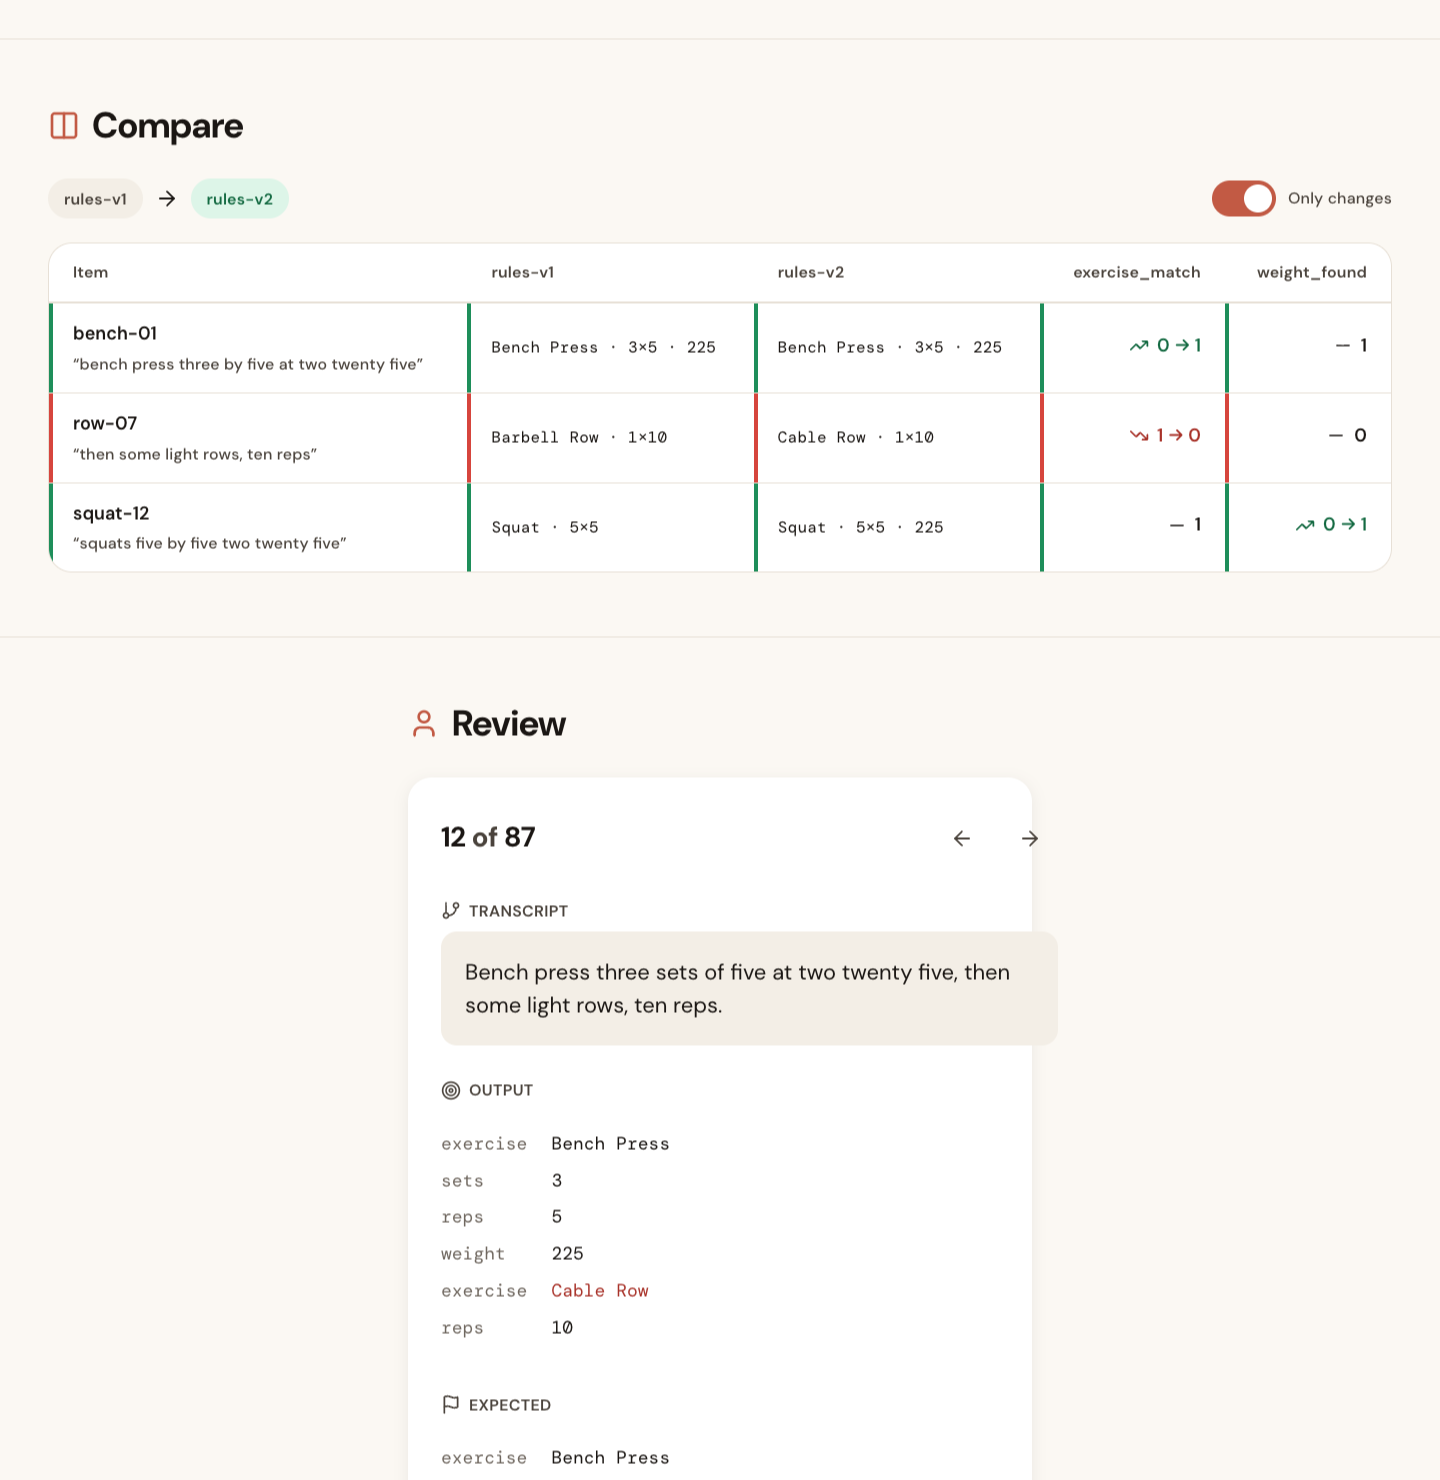
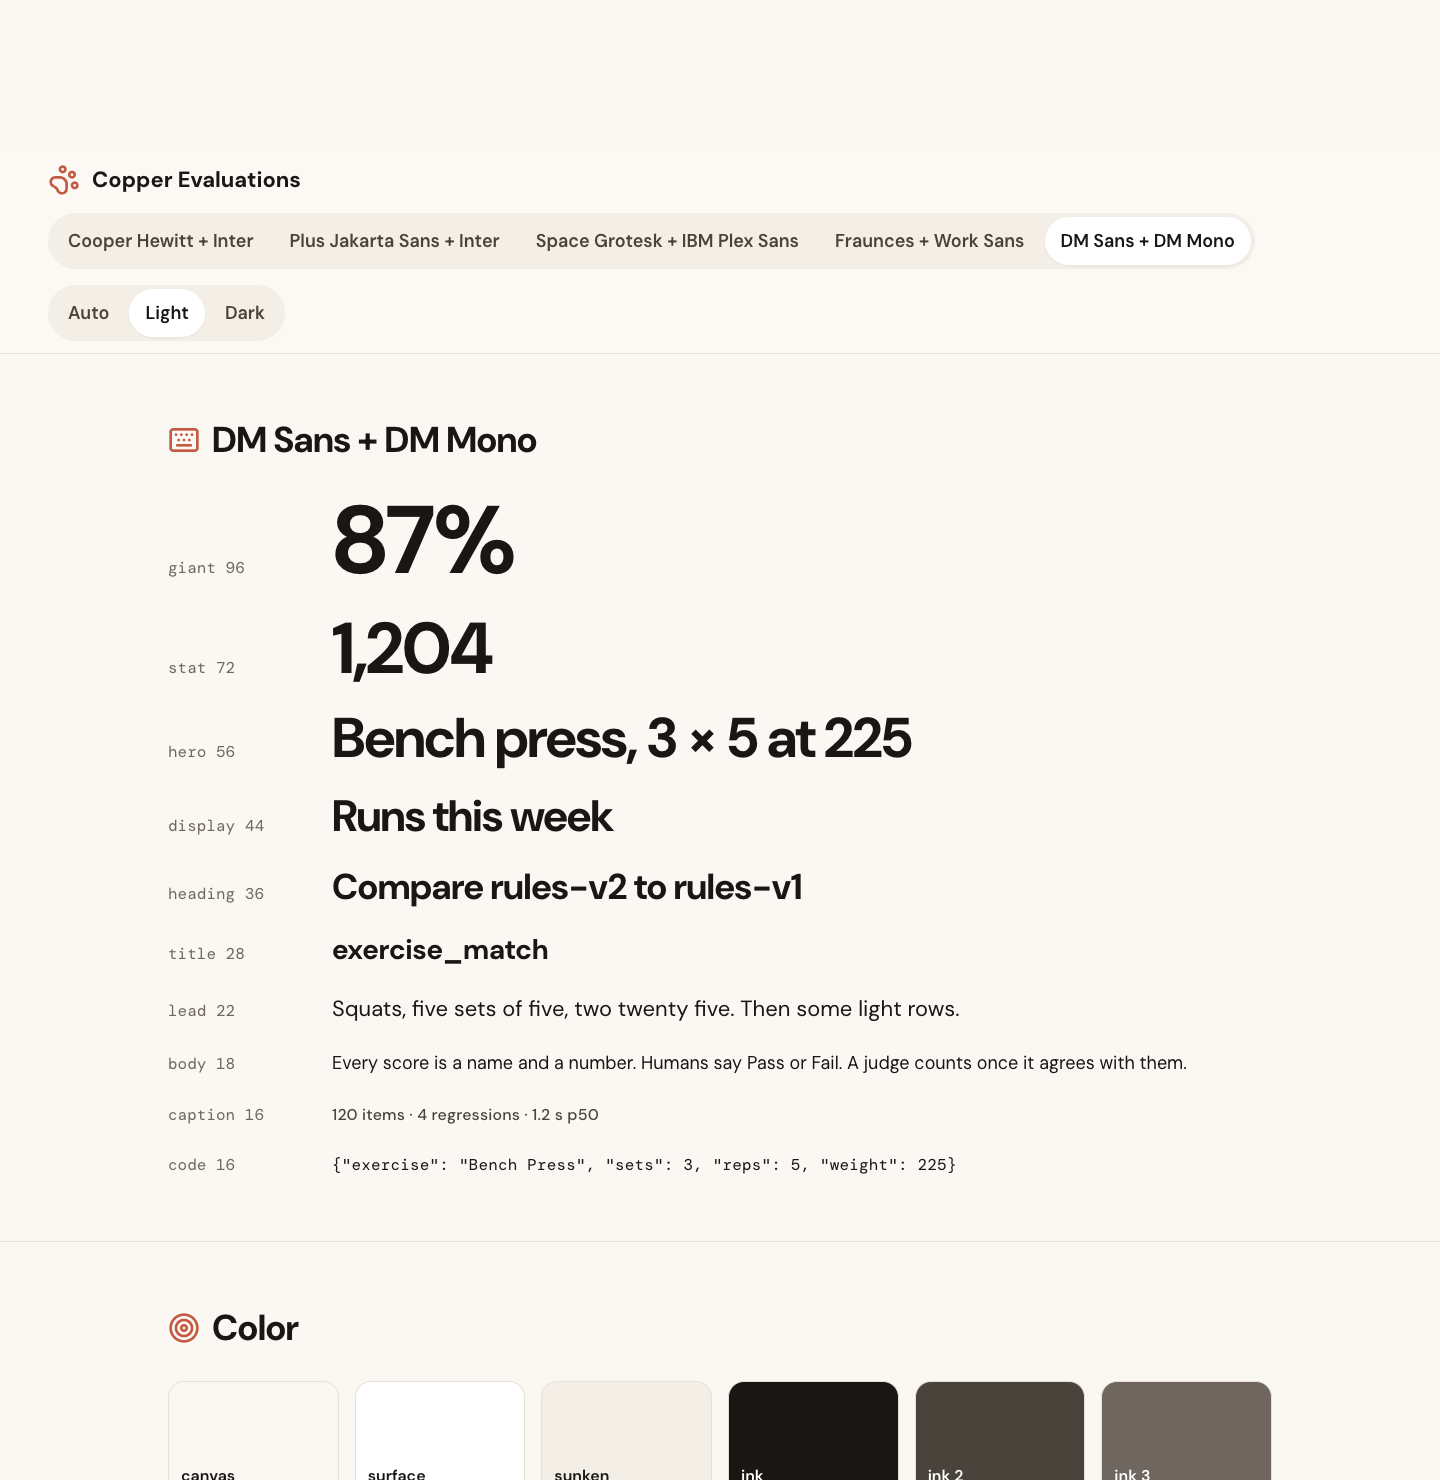
feat(fonts): remove San Francisco, fix type specimen crops
Seven sans-serif pairs, all on Google Fonts. Specimens now crop from
the top of the page instead of the center.

Claude-Session: https://claude.ai/code/session_015RtGAbFhzafZUMXAFjyWvT

diff --git a/design-system/dist/artifact.html b/design-system/dist/artifact.html
@@ -206,12 +206,6 @@
   --font-mono: "JetBrains Mono", ui-monospace, SFMono-Regular, Menlo, Consolas, monospace;
   --font-heading-weight: 700;
 }
-:root[data-font="sf"] {
-  --font-heading: -apple-system, BlinkMacSystemFont, "SF Pro Text", "SF Pro Display", system-ui, "Segoe UI", Roboto, sans-serif;
-  --font-body: -apple-system, BlinkMacSystemFont, "SF Pro Text", "SF Pro Display", system-ui, "Segoe UI", Roboto, sans-serif;
-  --font-mono: ui-monospace, "SF Mono", Menlo, Consolas, monospace;
-  --font-heading-weight: 700;
-}
 :root[data-font="jakarta"] {
   --font-heading: "Plus Jakarta Sans", system-ui, -apple-system, "Segoe UI", Roboto, Helvetica, Arial, sans-serif;
   --font-body: Figtree, system-ui, -apple-system, "Segoe UI", Roboto, Helvetica, Arial, sans-serif;
@@ -659,7 +653,7 @@ textarea.input { min-height: 120px; padding-block: var(--space-3); resize: verti
 
 <script>
 (function () {
-  var pairs = [{"id":"sora","label":"Sora + Manrope"},{"id":"rubik","label":"Rubik + Lexend"},{"id":"open","label":"Open Sans"},{"id":"sf","label":"San Francisco"},{"id":"jakarta","label":"Plus Jakarta Sans + Figtree"},{"id":"outfit","label":"Outfit + Source Sans 3"},{"id":"grotesk","label":"Space Grotesk + IBM Plex Sans"},{"id":"dm","label":"DM Sans + DM Mono"}];
+  var pairs = [{"id":"sora","label":"Sora + Manrope"},{"id":"rubik","label":"Rubik + Lexend"},{"id":"open","label":"Open Sans"},{"id":"jakarta","label":"Plus Jakarta Sans + Figtree"},{"id":"outfit","label":"Outfit + Source Sans 3"},{"id":"grotesk","label":"Space Grotesk + IBM Plex Sans"},{"id":"dm","label":"DM Sans + DM Mono"}];
   var root = document.documentElement;
   var store = { get: function (k) { try { return localStorage.getItem(k); } catch (e) { return null; } }, set: function (k, v) { try { localStorage.setItem(k, v); } catch (e) {} } };
 

diff --git a/design-system/preview/index.html b/design-system/preview/index.html
@@ -208,12 +208,6 @@
   --font-mono: "JetBrains Mono", ui-monospace, SFMono-Regular, Menlo, Consolas, monospace;
   --font-heading-weight: 700;
 }
-:root[data-font="sf"] {
-  --font-heading: -apple-system, BlinkMacSystemFont, "SF Pro Text", "SF Pro Display", system-ui, "Segoe UI", Roboto, sans-serif;
-  --font-body: -apple-system, BlinkMacSystemFont, "SF Pro Text", "SF Pro Display", system-ui, "Segoe UI", Roboto, sans-serif;
-  --font-mono: ui-monospace, "SF Mono", Menlo, Consolas, monospace;
-  --font-heading-weight: 700;
-}
 :root[data-font="jakarta"] {
   --font-heading: "Plus Jakarta Sans", system-ui, -apple-system, "Segoe UI", Roboto, Helvetica, Arial, sans-serif;
   --font-body: Figtree, system-ui, -apple-system, "Segoe UI", Roboto, Helvetica, Arial, sans-serif;
@@ -661,7 +655,7 @@ textarea.input { min-height: 120px; padding-block: var(--space-3); resize: verti
 
 <script>
 (function () {
-  var pairs = [{"id":"sora","label":"Sora + Manrope"},{"id":"rubik","label":"Rubik + Lexend"},{"id":"open","label":"Open Sans"},{"id":"sf","label":"San Francisco"},{"id":"jakarta","label":"Plus Jakarta Sans + Figtree"},{"id":"outfit","label":"Outfit + Source Sans 3"},{"id":"grotesk","label":"Space Grotesk + IBM Plex Sans"},{"id":"dm","label":"DM Sans + DM Mono"}];
+  var pairs = [{"id":"sora","label":"Sora + Manrope"},{"id":"rubik","label":"Rubik + Lexend"},{"id":"open","label":"Open Sans"},{"id":"jakarta","label":"Plus Jakarta Sans + Figtree"},{"id":"outfit","label":"Outfit + Source Sans 3"},{"id":"grotesk","label":"Space Grotesk + IBM Plex Sans"},{"id":"dm","label":"DM Sans + DM Mono"}];
   var root = document.documentElement;
   var store = { get: function (k) { try { return localStorage.getItem(k); } catch (e) { return null; } }, set: function (k, v) { try { localStorage.setItem(k, v); } catch (e) {} } };
 

diff --git a/design-system/src/tokens/typography.ts b/design-system/src/tokens/typography.ts
@@ -102,8 +102,6 @@ const monoFallback = `ui-monospace, SFMono-Regular, Menlo, Consolas, monospace`;
 
 /**
  * Candidate font pairs. Pick one; the others stay for comparison.
- * San Francisco is the Apple system face. It has no web download, so the
- * stack resolves to SF on Apple devices and to the platform sans elsewhere.
  */
 export const fontPairs: readonly FontPair[] = [
   {
@@ -134,15 +132,6 @@ export const fontPairs: readonly FontPair[] = [
     mono: `"JetBrains Mono", ${monoFallback}`,
     googleFontsUrl:
       'https://fonts.googleapis.com/css2?family=Open+Sans:wght@400;500;600;700;800&family=JetBrains+Mono:wght@400;500&display=swap',
-    headingWeight: 'bold',
-  },
-  {
-    id: 'sf',
-    label: 'San Francisco',
-    heading: `-apple-system, BlinkMacSystemFont, "SF Pro Text", "SF Pro Display", system-ui, "Segoe UI", Roboto, sans-serif`,
-    body: `-apple-system, BlinkMacSystemFont, "SF Pro Text", "SF Pro Display", system-ui, "Segoe UI", Roboto, sans-serif`,
-    mono: `ui-monospace, "SF Mono", Menlo, Consolas, monospace`,
-    googleFontsUrl: null,
     headingWeight: 'bold',
   },
   {

diff --git a/design-system/dist/system.css b/design-system/dist/system.css
@@ -194,12 +194,6 @@
   --font-mono: "JetBrains Mono", ui-monospace, SFMono-Regular, Menlo, Consolas, monospace;
   --font-heading-weight: 700;
 }
-:root[data-font="sf"] {
-  --font-heading: -apple-system, BlinkMacSystemFont, "SF Pro Text", "SF Pro Display", system-ui, "Segoe UI", Roboto, sans-serif;
-  --font-body: -apple-system, BlinkMacSystemFont, "SF Pro Text", "SF Pro Display", system-ui, "Segoe UI", Roboto, sans-serif;
-  --font-mono: ui-monospace, "SF Mono", Menlo, Consolas, monospace;
-  --font-heading-weight: 700;
-}
 :root[data-font="jakarta"] {
   --font-heading: "Plus Jakarta Sans", system-ui, -apple-system, "Segoe UI", Roboto, Helvetica, Arial, sans-serif;
   --font-body: Figtree, system-ui, -apple-system, "Segoe UI", Roboto, Helvetica, Arial, sans-serif;

diff --git a/design-system/dist/tokens.css b/design-system/dist/tokens.css
@@ -194,12 +194,6 @@
   --font-mono: "JetBrains Mono", ui-monospace, SFMono-Regular, Menlo, Consolas, monospace;
   --font-heading-weight: 700;
 }
-:root[data-font="sf"] {
-  --font-heading: -apple-system, BlinkMacSystemFont, "SF Pro Text", "SF Pro Display", system-ui, "Segoe UI", Roboto, sans-serif;
-  --font-body: -apple-system, BlinkMacSystemFont, "SF Pro Text", "SF Pro Display", system-ui, "Segoe UI", Roboto, sans-serif;
-  --font-mono: ui-monospace, "SF Mono", Menlo, Consolas, monospace;
-  --font-heading-weight: 700;
-}
 :root[data-font="jakarta"] {
   --font-heading: "Plus Jakarta Sans", system-ui, -apple-system, "Segoe UI", Roboto, Helvetica, Arial, sans-serif;
   --font-body: Figtree, system-ui, -apple-system, "Segoe UI", Roboto, Helvetica, Arial, sans-serif;

diff --git a/docs/design/font-pairs.md b/docs/design/font-pairs.md
@@ -1,19 +1,16 @@
 # Font pairs
 
-Eight candidates, all sans-serif. Toggle between them in `design-system/preview/index.html`. Screenshots are 1440px wide, light theme, captured on macOS so San Francisco renders as SF Pro. One dark capture for the default pair.
+Seven candidates, all sans-serif and all on Google Fonts, so they render the same on every platform. Toggle between them in `design-system/preview/index.html`. Screenshots are 1440px wide, light theme. One dark capture for the default pair.
 
 | Id | Heading | Body | Character |
 |---|---|---|---|
 | `sora` | Sora | Manrope | Airy geometric headings, calm wide body. Default. |
 | `rubik` | Rubik | Lexend | Rounded headings, body built for reading ease. |
 | `open` | Open Sans | Open Sans | Humanist, neutral, one variable family. |
-| `sf` | San Francisco | San Francisco | Pure Apple. Segoe or Roboto on other platforms. |
 | `jakarta` | Plus Jakarta Sans | Figtree | Rounded, consumer feel. |
 | `outfit` | Outfit | Source Sans 3 | Geometric display, humanist body. |
 | `grotesk` | Space Grotesk | IBM Plex Sans | Quirky terminals on the headings, sober body. |
 | `dm` | DM Sans | DM Mono | One family. Calm, low contrast between roles. |
-
-San Francisco has no web download. The stack is `-apple-system, "SF Pro Text", system-ui`, so it resolves to SF on Apple devices and to the platform sans elsewhere.
 
 ## Type specimen
 
@@ -22,8 +19,6 @@ San Francisco has no web download. The stack is `-apple-system, "SF Pro Text", s
 ![Rubik + Lexend](../../design-system/preview/screenshots/type-rubik.png)
 
 ![Open Sans](../../design-system/preview/screenshots/type-open.png)
-
-![San Francisco](../../design-system/preview/screenshots/type-sf.png)
 
 ![Plus Jakarta Sans + Figtree](../../design-system/preview/screenshots/type-jakarta.png)
 
@@ -40,7 +35,6 @@ San Francisco has no web download. The stack is `-apple-system, "SF Pro Text", s
 | sora | [light](../../design-system/preview/screenshots/font-sora-light.png) | [dark](../../design-system/preview/screenshots/font-sora-dark.png) |
 | rubik | [light](../../design-system/preview/screenshots/font-rubik-light.png) | |
 | open | [light](../../design-system/preview/screenshots/font-open-light.png) | |
-| sf | [light](../../design-system/preview/screenshots/font-sf-light.png) | |
 | jakarta | [light](../../design-system/preview/screenshots/font-jakarta-light.png) | |
 | outfit | [light](../../design-system/preview/screenshots/font-outfit-light.png) | |
 | grotesk | [light](../../design-system/preview/screenshots/font-grotesk-light.png) | |

diff --git a/design-system/README.md b/design-system/README.md
@@ -45,7 +45,6 @@ open preview/index.html
 | `sora` | Sora | Manrope |
 | `rubik` | Rubik | Lexend |
 | `open` | Open Sans | Open Sans |
-| `sf` | San Francisco | San Francisco |
 | `jakarta` | Plus Jakarta Sans | Figtree |
 | `outfit` | Outfit | Source Sans 3 |
 | `grotesk` | Space Grotesk | IBM Plex Sans |
